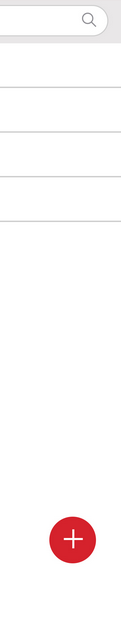
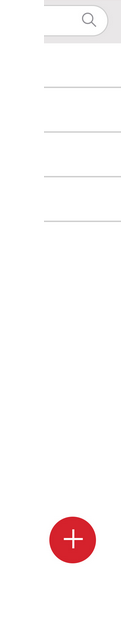
Reduce faq right side to make it beautiful (temporary solution)

Changed region(s): [[0.0, 0.0, 0.3719, 0.0622]]

diff --git a/LostAndFound/www/css/faq.css b/LostAndFound/www/css/faq.css
@@ -25,7 +25,7 @@
 }
 
 #faq__container_right {
-    width: 120px;
+    width: 77px;
     height: 570px;
     background: url(../img/faq_right.png) no-repeat;
     background-position: right top;
